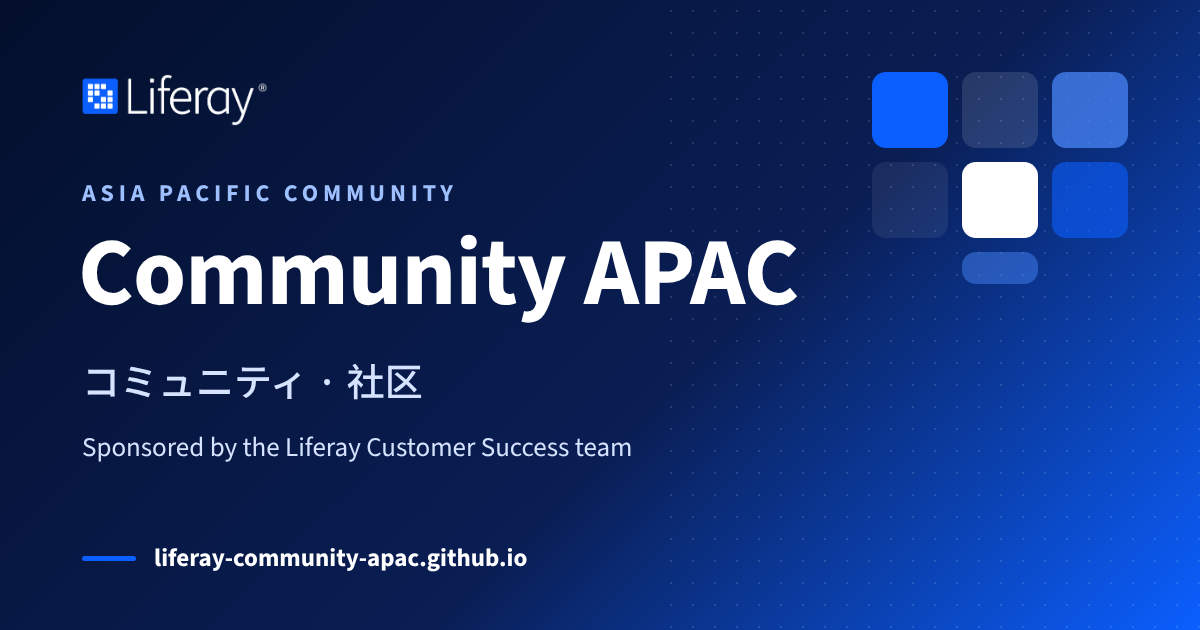
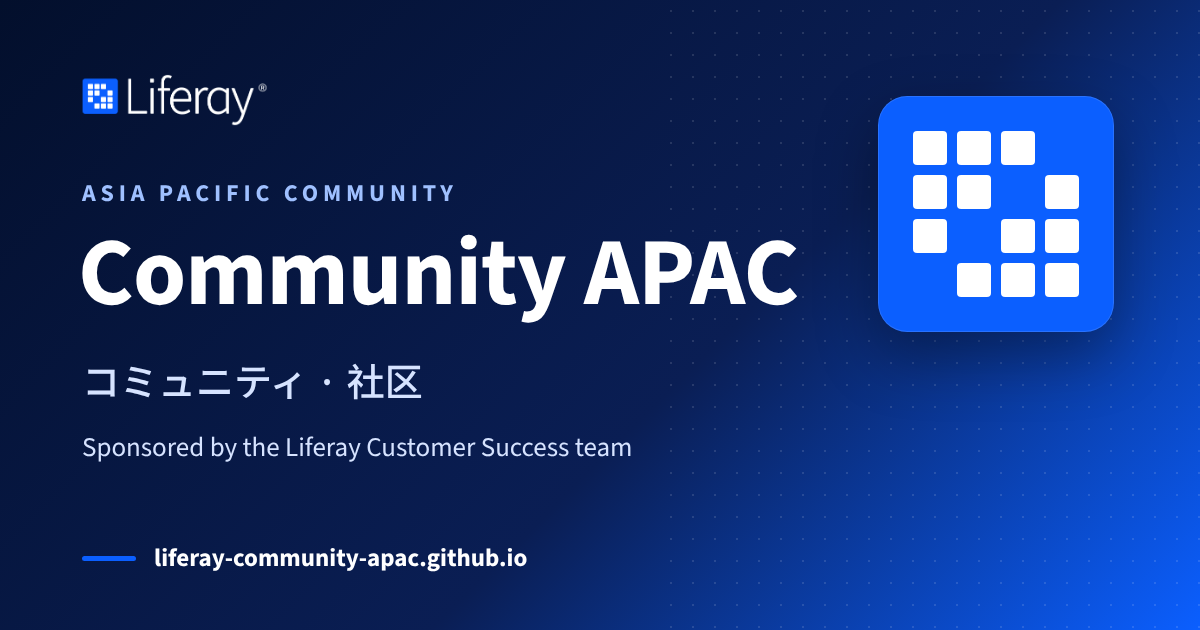
Use a compact layout and the Liferay mark in the hero
- Tighten spacing and type across every page (homepages, knowledge
  base, Marketplace apps, 404 and the app docs, which share the
  stylesheet): section spacing 88px to 44px, smaller headings and body
  text, tighter cards, notices, buttons and docs layout. The homepage
  is about 30% shorter.
- Replace the hero's loose tiles with the Liferay logo's mark: the
  same 4 x 4 pattern of squares in the logo's proportions, sized from
  one variable.
- Heroes no longer add section spacing on top of their own.
- New social preview image with the same mark.

Changed region(s): [[0.7092, 0.0905, 0.9558, 0.573]]

diff --git a/assets/site.css b/assets/site.css
@@ -80,15 +80,17 @@ img, svg { display: block; }
 .eyebrow { margin: 0 0 14px; font-size: 14px; font-weight: 600; letter-spacing: .3em; text-transform: uppercase; color: #9fc0ff; }
 .hero h1 { margin: 0 0 18px; font-size: clamp(40px, 6vw, 64px); line-height: 1.08; font-weight: 700; }
 .hero p.lead { margin: 0 0 32px; max-width: 34em; font-size: 20px; color: #d6e3ff; }
-.tiles { display: grid; grid-template-columns: repeat(3, 96px); grid-auto-rows: 96px; gap: 16px; justify-content: end; }
-.tiles span { border-radius: 16px; background: rgba(255, 255, 255, .12); }
-.tiles span:nth-child(1) { background: var(--blue); }
-.tiles span:nth-child(3) { background: rgba(76, 139, 255, .7); }
-.tiles span:nth-child(4) { background: rgba(255, 255, 255, .07); }
-.tiles span:nth-child(5) { background: #fff; }
-.tiles span:nth-child(6) { background: rgba(11, 95, 255, .6); }
-.tiles span:nth-child(7), .tiles span:nth-child(9) { visibility: hidden; }
-.tiles span:nth-child(8) { height: 40px; background: rgba(76, 139, 255, .45); }
+/* Hero mark: the Liferay logo's pattern of squares (4 x 4, the anti-diagonal empty) on a brand-blue tile */
+.hero-mark {
+  --mark: 240px;
+  justify-self: end; width: var(--mark); height: var(--mark); box-sizing: border-box;
+  padding: calc(var(--mark) * 24 / 162);
+  display: grid; grid-template-columns: repeat(4, 1fr); grid-template-rows: repeat(4, 1fr); gap: calc(var(--mark) * 7 / 162);
+  background: var(--blue); border-radius: calc(var(--mark) * 20 / 162);
+  box-shadow: 0 24px 60px rgba(0, 0, 0, .35), inset 0 0 0 1px rgba(255, 255, 255, .12);
+}
+.hero-mark span { border-radius: 12%; background: #fff; }
+.hero-mark span:nth-child(4), .hero-mark span:nth-child(7), .hero-mark span:nth-child(10), .hero-mark span:nth-child(13) { visibility: hidden; }
 
 /* Buttons */
 .btns { display: flex; flex-wrap: wrap; gap: 12px; }
@@ -203,7 +205,7 @@ section.alt { background: var(--bg-alt); }
 /* Responsive */
 @media (max-width: 960px) {
   .hero .wrap { grid-template-columns: 1fr; padding-top: 64px; padding-bottom: 72px; }
-  .tiles { display: none; }
+  .hero-mark { display: none; }
   .concepts { grid-template-columns: repeat(2, 1fr); }
   .concepts li, .concepts li:nth-child(4) { grid-column: auto; }
   .concepts li:nth-child(5) { grid-column: 1 / -1; }
@@ -483,3 +485,72 @@ section.alt { background: var(--bg-alt); }
 }
 .notice p + p { margin-top: 8px; }
 .support-note { max-width: 860px; margin: 20px 0 0; font-size: 15px; color: var(--muted); }
+
+/* ------------------------------------------------------------------
+   Compact layout: tighter spacing and type across every page
+   (homepages, knowledge base, Marketplace apps, 404 and app docs).
+   ------------------------------------------------------------------ */
+body { font-size: 16px; line-height: 1.6; }
+section { padding: 44px 0; scroll-margin-top: 64px; }
+.hero { padding: 0; } /* a hero is a <section>: use only its own spacing */
+.hero .wrap { padding-top: 56px; padding-bottom: 60px; gap: 32px; }
+.hero h1 { font-size: clamp(32px, 4.2vw, 46px); margin-bottom: 12px; }
+.hero p.lead { font-size: 18px; margin-bottom: 22px; }
+.eyebrow { margin-bottom: 10px; font-size: 13px; }
+.hero-mark { --mark: 200px; }
+.hero.page .wrap { padding-top: 40px; padding-bottom: 44px; }
+.hero.page h1 { font-size: clamp(28px, 3.6vw, 38px); }
+.crumbs { margin-bottom: 12px; }
+.section-head { margin-bottom: 22px; max-width: 760px; }
+.section-head h2 { font-size: clamp(24px, 2.6vw, 30px); margin-bottom: 6px; }
+.section-head p { font-size: 16px; }
+.kicker { margin-bottom: 6px; font-size: 12px; }
+.card { padding: 20px; }
+.card h3 { font-size: 18px; margin: 2px 0 6px; }
+.icon { width: 40px; height: 40px; margin-bottom: 12px; border-radius: 10px; }
+.icon svg { width: 24px; height: 24px; }
+.concepts, .resources, .groups, .steps, .doc-cards { gap: 14px; }
+.resource .tag { margin-bottom: 10px; }
+.resource .meta { margin-top: 10px; font-size: 13px; }
+.resource a.more { margin-top: 12px; }
+.resource.app .app-shot { width: calc(100% + 40px); margin: -20px -20px 16px; }
+.subhead { margin: 30px 0 12px; }
+.subhead h3 { font-size: 20px; }
+.notice { margin: -6px 0 20px; padding: 14px 18px; }
+.notice strong { font-size: 16px; }
+.notice p { font-size: 15px; }
+.kb-cat { gap: 24px; }
+.kb-cat + .kb-cat { margin-top: 36px; padding-top: 36px; }
+.showcases { gap: 20px; }
+.showcase { padding: 22px; gap: 26px; }
+.showcase-body h3 { font-size: 26px; }
+.showcase-body .showcase-tagline { font-size: 17px; }
+.showcase-points { gap: 4px; }
+.showcase-features, .showcase-gallery { padding-top: 20px; }
+.gallery { gap: 18px; }
+.support-note { margin-top: 14px; font-size: 14px; }
+.steps { margin-bottom: 22px; }
+.steps .card::before { width: 30px; height: 30px; margin-bottom: 10px; }
+.card.events { margin-top: 14px; }
+.cta { padding: 32px 36px; }
+.cta h2 { font-size: 26px; }
+.cta p { font-size: 16px; }
+.btn { padding: 10px 18px; font-size: 15px; }
+.site-footer { padding: 24px 0; }
+/* App docs */
+.docs { padding-top: 24px; padding-bottom: 48px; gap: 36px; }
+.docs-nav { top: 80px; }
+.prose h1 { font-size: clamp(28px, 3.4vw, 36px); margin-bottom: 14px; }
+.prose h2 { margin: 32px 0 10px; font-size: 24px; }
+.prose h3 { margin: 24px 0 6px; font-size: 19px; }
+.toc, .prose #markdown-toc { margin-bottom: 22px; padding-top: 12px; padding-bottom: 12px; }
+.pager { margin-top: 36px; padding-top: 18px; }
+@media (max-width: 960px) {
+  .hero .wrap { padding-top: 44px; padding-bottom: 48px; }
+  .cta { padding: 26px 22px; }
+}
+@media (max-width: 720px) {
+  section { padding: 36px 0; }
+  .hero h1 { font-size: clamp(30px, 8vw, 38px); }
+  .hero p.lead { font-size: 17px; }
+}

diff --git a/ja/index.html b/ja/index.html
@@ -15,14 +15,14 @@
   <meta property="og:locale" content="ja_JP">
   <meta property="og:locale:alternate" content="en_US">
   <meta property="og:locale:alternate" content="zh_CN">
-  <meta property="og:image" content="https://liferay-community-apac.github.io/assets/og-image.png?v=2">
+  <meta property="og:image" content="https://liferay-community-apac.github.io/assets/og-image.png?v=3">
   <meta property="og:image:width" content="1200">
   <meta property="og:image:height" content="630">
   <meta property="og:image:alt" content="Liferay コミュニティ APAC（スポンサー：Liferay カスタマーサクセス）">
   <meta name="twitter:card" content="summary_large_image">
   <meta name="twitter:title" content="Liferay コミュニティ APAC">
   <meta name="twitter:description" content="アジア太平洋地域で Liferay DXP を利用する個人ユーザー、お客様、パートナーのためのコミュニティ。スポンサーは Liferay カスタマーサクセスチームです。">
-  <meta name="twitter:image" content="https://liferay-community-apac.github.io/assets/og-image.png?v=2">
+  <meta name="twitter:image" content="https://liferay-community-apac.github.io/assets/og-image.png?v=3">
   <script type="application/ld+json">
 {
   "@context": "https://schema.org",
@@ -84,7 +84,7 @@
   <link rel="preconnect" href="https://fonts.googleapis.com">
   <link rel="preconnect" href="https://fonts.gstatic.com" crossorigin>
   <link rel="stylesheet" href="https://fonts.googleapis.com/css2?family=Noto+Sans+JP:wght@400;600;700&family=Source+Sans+3:wght@400;600;700&display=swap">
-  <link rel="stylesheet" href="../assets/site.css?v=m6">
+  <link rel="stylesheet" href="../assets/site.css?v=c1">
   <script src="../assets/site-chrome.js?v=8" defer></script>
 </head>
 <body>
@@ -107,7 +107,7 @@
           <a class="btn ghost" href="#resources">チュートリアルを見る</a>
         </div>
       </div>
-      <div class="tiles" aria-hidden="true"><span></span><span></span><span></span><span></span><span></span><span></span><span></span><span></span><span></span></div>
+      <div class="hero-mark" aria-hidden="true"><span></span><span></span><span></span><span></span><span></span><span></span><span></span><span></span><span></span><span></span><span></span><span></span><span></span><span></span><span></span><span></span></div>
     </div>
   </section>
 

diff --git a/zh/index.html b/zh/index.html
@@ -15,14 +15,14 @@
   <meta property="og:locale" content="zh_CN">
   <meta property="og:locale:alternate" content="en_US">
   <meta property="og:locale:alternate" content="ja_JP">
-  <meta property="og:image" content="https://liferay-community-apac.github.io/assets/og-image.png?v=2">
+  <meta property="og:image" content="https://liferay-community-apac.github.io/assets/og-image.png?v=3">
   <meta property="og:image:width" content="1200">
   <meta property="og:image:height" content="630">
   <meta property="og:image:alt" content="Liferay 社区 APAC（赞助方：Liferay 客户成功团队）">
   <meta name="twitter:card" content="summary_large_image">
   <meta name="twitter:title" content="Liferay 社区 APAC">
   <meta name="twitter:description" content="面向亚太地区 Liferay DXP 个人用户、客户和合作伙伴的社区，由 Liferay 客户成功团队赞助。">
-  <meta name="twitter:image" content="https://liferay-community-apac.github.io/assets/og-image.png?v=2">
+  <meta name="twitter:image" content="https://liferay-community-apac.github.io/assets/og-image.png?v=3">
   <script type="application/ld+json">
 {
   "@context": "https://schema.org",
@@ -84,7 +84,7 @@
   <link rel="preconnect" href="https://fonts.googleapis.com">
   <link rel="preconnect" href="https://fonts.gstatic.com" crossorigin>
   <link rel="stylesheet" href="https://fonts.googleapis.com/css2?family=Noto+Sans+SC:wght@400;600;700&family=Source+Sans+3:wght@400;600;700&display=swap">
-  <link rel="stylesheet" href="../assets/site.css?v=m6">
+  <link rel="stylesheet" href="../assets/site.css?v=c1">
   <script src="../assets/site-chrome.js?v=8" defer></script>
 </head>
 <body>
@@ -107,7 +107,7 @@
           <a class="btn ghost" href="#resources">浏览教程</a>
         </div>
       </div>
-      <div class="tiles" aria-hidden="true"><span></span><span></span><span></span><span></span><span></span><span></span><span></span><span></span><span></span></div>
+      <div class="hero-mark" aria-hidden="true"><span></span><span></span><span></span><span></span><span></span><span></span><span></span><span></span><span></span><span></span><span></span><span></span><span></span><span></span><span></span><span></span></div>
     </div>
   </section>
 

diff --git a/index.html b/index.html
@@ -15,14 +15,14 @@
   <meta property="og:locale" content="en_US">
   <meta property="og:locale:alternate" content="ja_JP">
   <meta property="og:locale:alternate" content="zh_CN">
-  <meta property="og:image" content="https://liferay-community-apac.github.io/assets/og-image.png?v=2">
+  <meta property="og:image" content="https://liferay-community-apac.github.io/assets/og-image.png?v=3">
   <meta property="og:image:width" content="1200">
   <meta property="og:image:height" content="630">
   <meta property="og:image:alt" content="Liferay Community APAC, sponsored by Liferay Customer Success">
   <meta name="twitter:card" content="summary_large_image">
   <meta name="twitter:title" content="Liferay Community APAC">
   <meta name="twitter:description" content="A community for individual users, customers and partners of Liferay DXP across Asia Pacific, sponsored by the Liferay Customer Success team.">
-  <meta name="twitter:image" content="https://liferay-community-apac.github.io/assets/og-image.png?v=2">
+  <meta name="twitter:image" content="https://liferay-community-apac.github.io/assets/og-image.png?v=3">
   <script type="application/ld+json">
 {
   "@context": "https://schema.org",
@@ -84,7 +84,7 @@
   <link rel="preconnect" href="https://fonts.googleapis.com">
   <link rel="preconnect" href="https://fonts.gstatic.com" crossorigin>
   <link rel="stylesheet" href="https://fonts.googleapis.com/css2?family=Source+Sans+3:wght@400;600;700&display=swap">
-  <link rel="stylesheet" href="assets/site.css?v=m6">
+  <link rel="stylesheet" href="assets/site.css?v=c1">
   <script src="assets/site-chrome.js?v=8" defer></script>
 </head>
 <body>
@@ -107,7 +107,7 @@
           <a class="btn ghost" href="#resources">Explore tutorials</a>
         </div>
       </div>
-      <div class="tiles" aria-hidden="true"><span></span><span></span><span></span><span></span><span></span><span></span><span></span><span></span><span></span></div>
+      <div class="hero-mark" aria-hidden="true"><span></span><span></span><span></span><span></span><span></span><span></span><span></span><span></span><span></span><span></span><span></span><span></span><span></span><span></span><span></span><span></span></div>
     </div>
   </section>
 

diff --git a/knowledge-base/index.html b/knowledge-base/index.html
@@ -11,14 +11,14 @@
   <link rel="canonical" href="https://liferay-community-apac.github.io/knowledge-base/">
   <meta property="og:url" content="https://liferay-community-apac.github.io/knowledge-base/">
   <meta property="og:site_name" content="Liferay Community APAC">
-  <meta property="og:image" content="https://liferay-community-apac.github.io/assets/og-image.png?v=2">
+  <meta property="og:image" content="https://liferay-community-apac.github.io/assets/og-image.png?v=3">
   <meta name="twitter:card" content="summary_large_image">
   <link rel="icon" href="../assets/liferay-mark.png" type="image/png">
   <link rel="apple-touch-icon" href="../assets/liferay-mark.png">
   <link rel="preconnect" href="https://fonts.googleapis.com">
   <link rel="preconnect" href="https://fonts.gstatic.com" crossorigin>
   <link rel="stylesheet" href="https://fonts.googleapis.com/css2?family=Source+Sans+3:wght@400;600;700&display=swap">
-  <link rel="stylesheet" href="../assets/site.css?v=m6">
+  <link rel="stylesheet" href="../assets/site.css?v=c1">
   <script src="../assets/site-chrome.js?v=8" defer></script>
 </head>
 <body>

diff --git a/marketplace-apps/index.html b/marketplace-apps/index.html
@@ -18,7 +18,7 @@
   <link rel="preconnect" href="https://fonts.googleapis.com">
   <link rel="preconnect" href="https://fonts.gstatic.com" crossorigin>
   <link rel="stylesheet" href="https://fonts.googleapis.com/css2?family=Source+Sans+3:wght@400;600;700&display=swap">
-  <link rel="stylesheet" href="../assets/site.css?v=m6">
+  <link rel="stylesheet" href="../assets/site.css?v=c1">
   <script src="../assets/site-chrome.js?v=8" defer></script>
 </head>
 <body>

diff --git a/404.html b/404.html
@@ -9,7 +9,7 @@
   <link rel="preconnect" href="https://fonts.googleapis.com">
   <link rel="preconnect" href="https://fonts.gstatic.com" crossorigin>
   <link rel="stylesheet" href="https://fonts.googleapis.com/css2?family=Source+Sans+3:wght@400;600;700&display=swap">
-  <link rel="stylesheet" href="/assets/site.css?v=m6">
+  <link rel="stylesheet" href="/assets/site.css?v=c1">
   <script src="/assets/site-chrome.js?v=8" defer></script>
 </head>
 <body>
